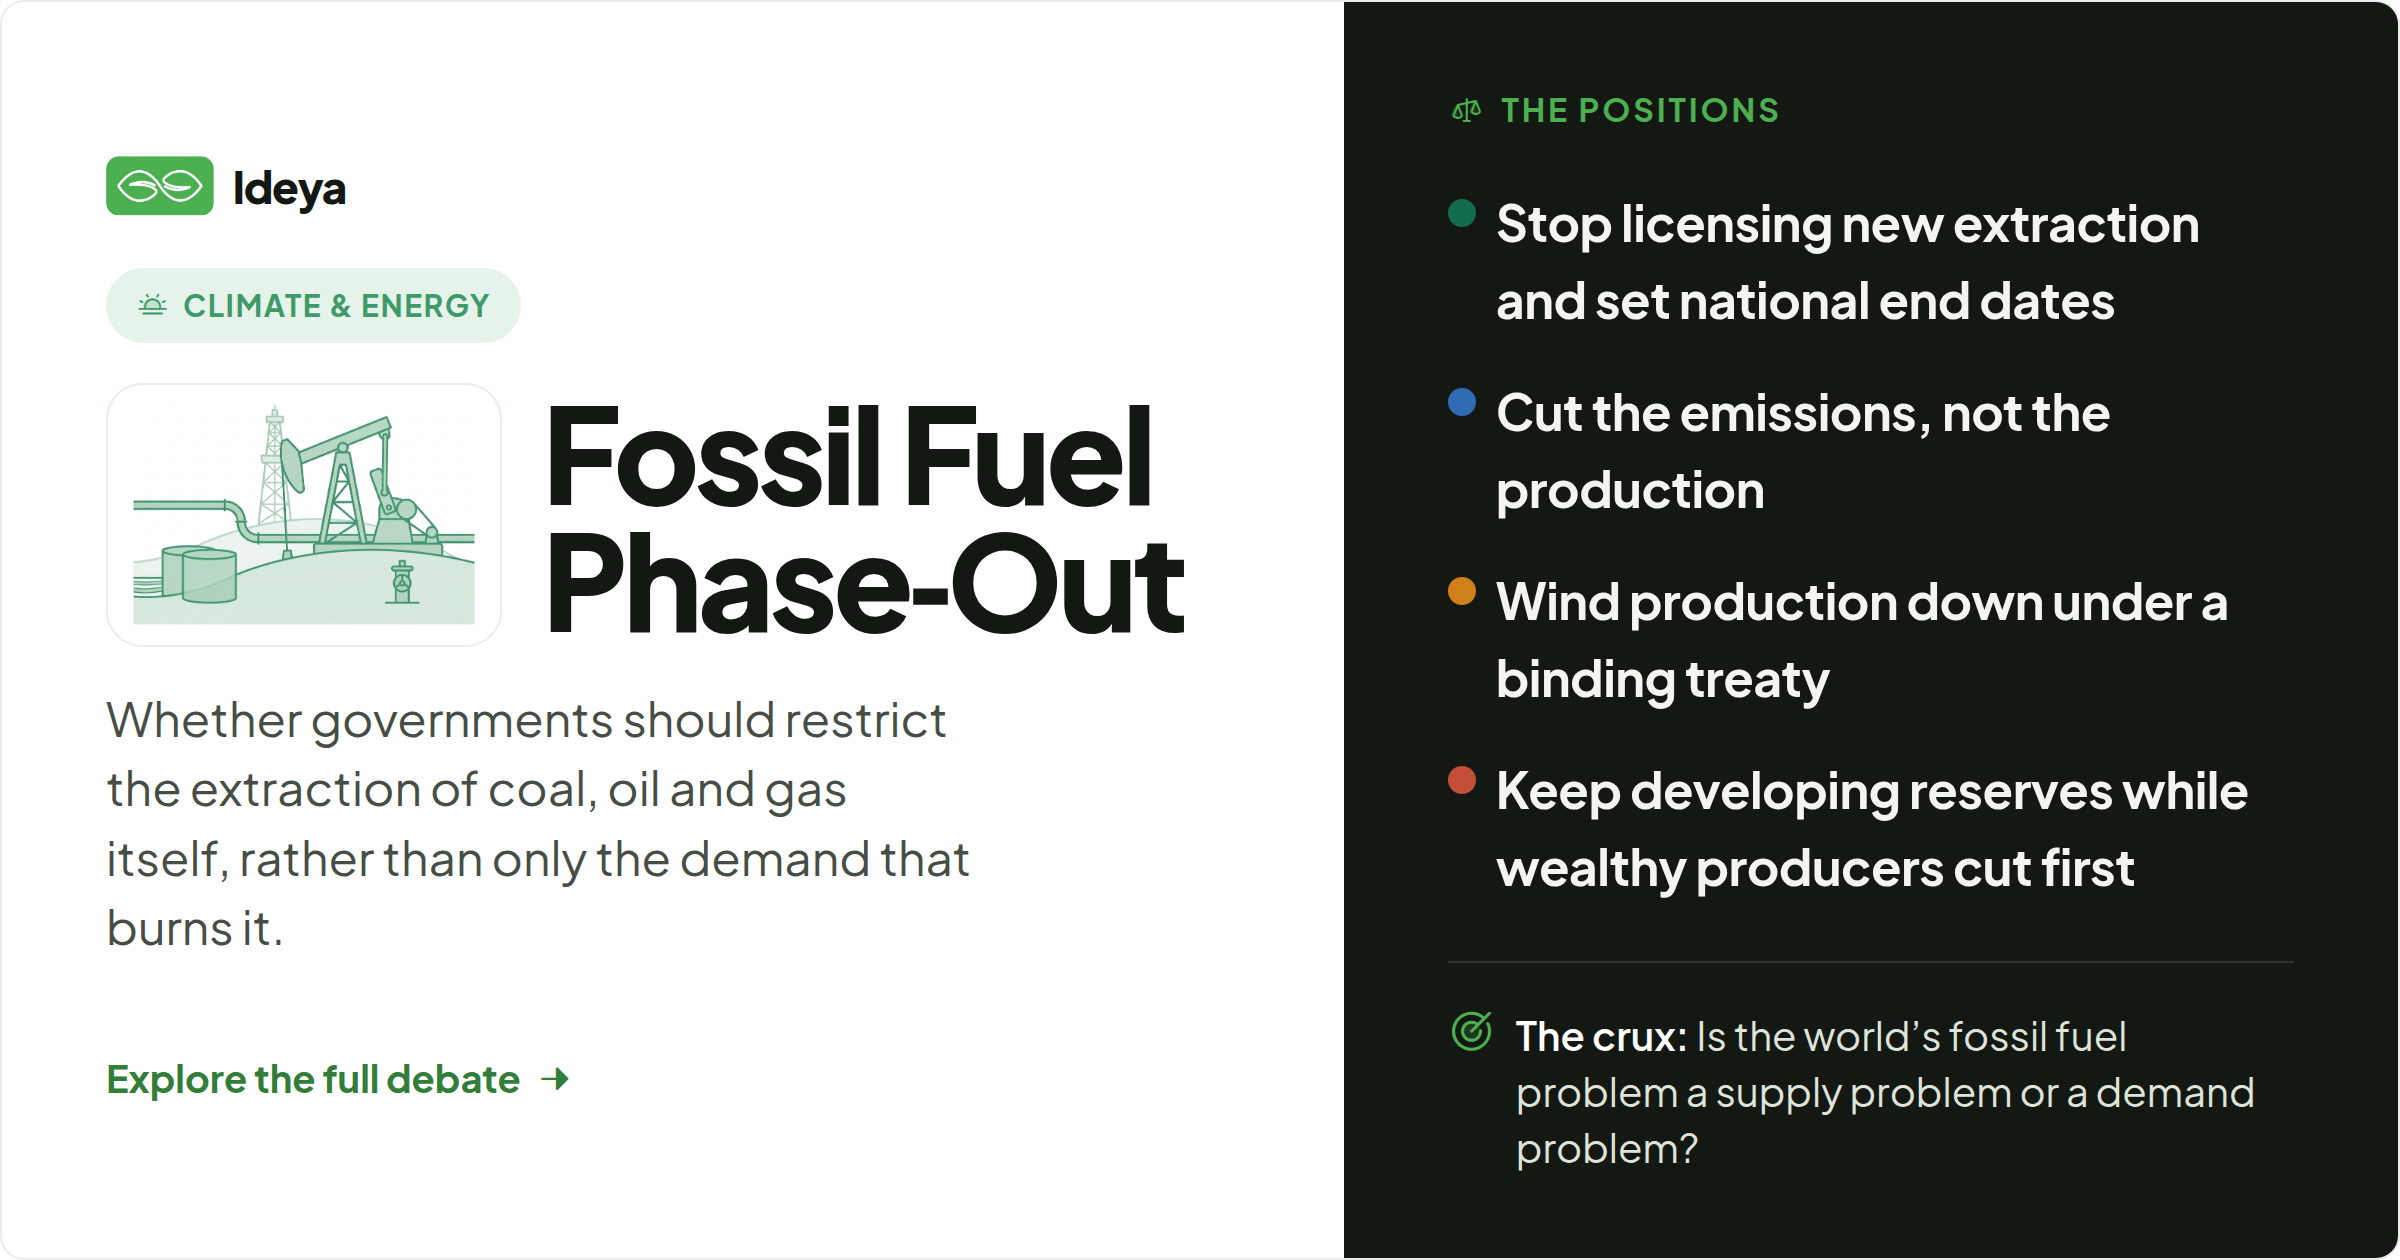
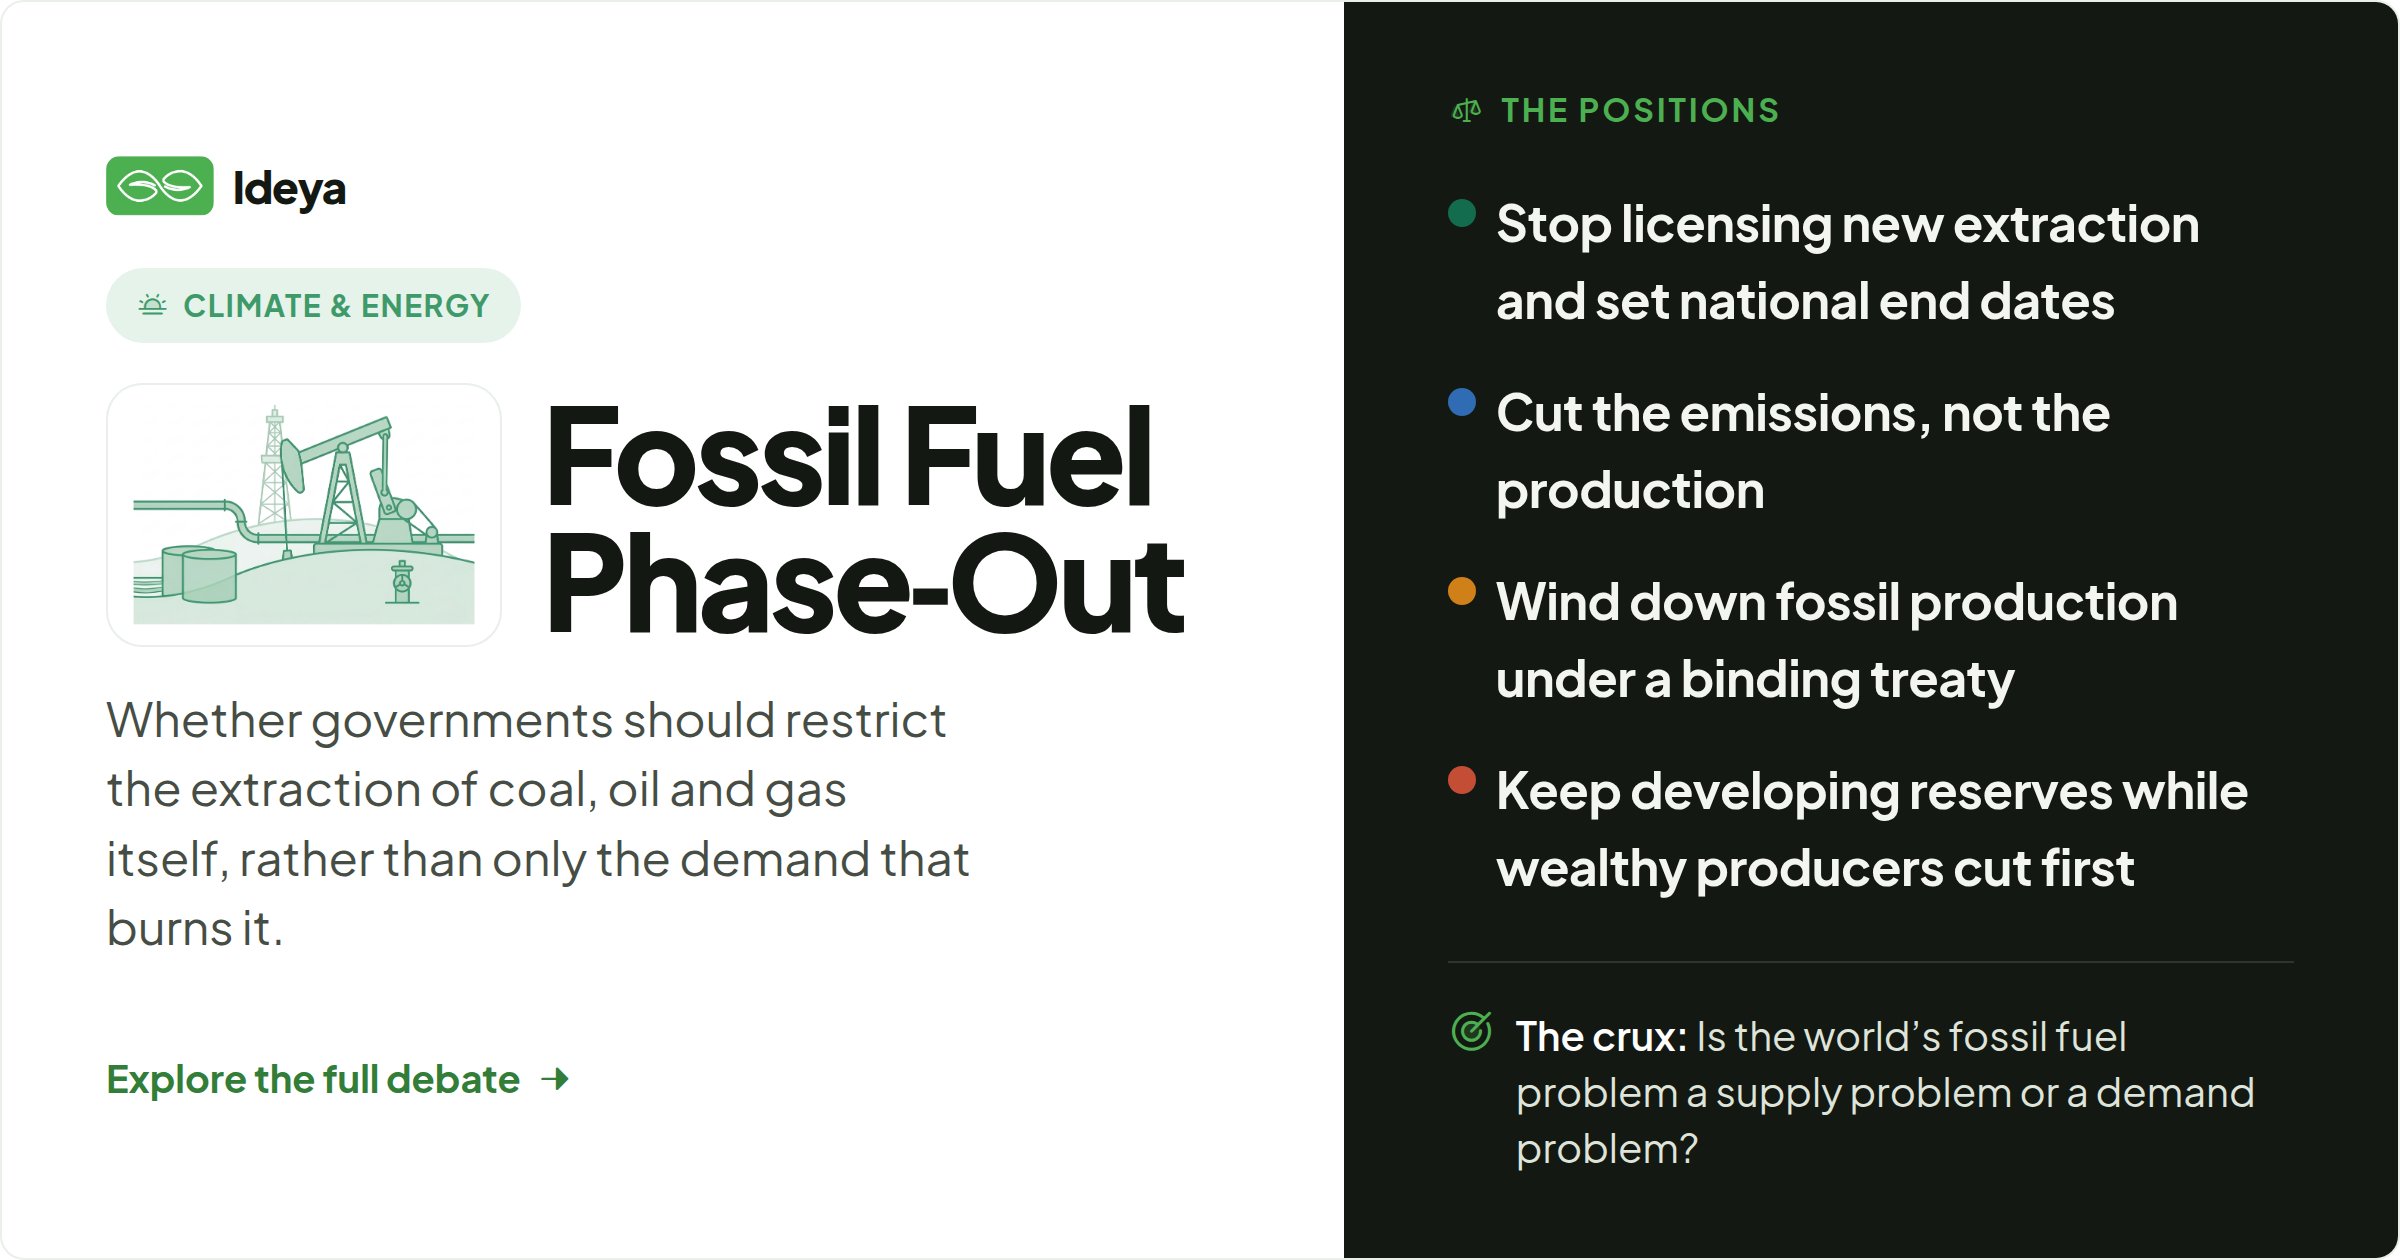
Launch review fixes: rate limit window, modal behavior, 20 topic corrections
From a full review of the 50 published topics and the reader interactions,
each finding re-checked before fixing.

- Rate limit: cache.incr re-set counters with the cache's 5-minute default,
  so every write pushed the lockout out and the daily cap never held. The
  window's end is now stored with the count.
- Modals: closing (Done, X, Esc, scrim) sends text typed but not sent; a
  vote or lean reopens its follow-up only while unanswered; the vote modal
  says what the reader did; a tick that fails to save un-ticks; Respond asks
  Yes / No / Not sure and offers plain options; prompt lists follow file
  order; placeholder reads "Your answer…".
- Topics: wrong-direction or self-contradicting lines fixed (homelessness,
  immigration, assisted dying, fossil fuels camp name, policing, UBI,
  deepfakes, degrowth, gun policy, AI pages and others); en-dash ranges;
  month-first dates on nuclear energy; fossil share cards re-rendered.
- Narrow range bands stay visible; drift check treats the derived neg flag
  like pct.

Changed region(s): [[0.6875, 0.4643, 0.9375, 0.4952], [0.625, 0.5262, 0.8438, 0.5571]]

diff --git a/static/js/ideya.js b/static/js/ideya.js
@@ -20,6 +20,19 @@
     // vote response triggers; its body arrives out of band — see _follow_modal).
     Alpine.store("follow", { open: false });
 
+    // Closing either modal (Done, X, Esc, scrim) sends text the reader typed
+    // but did not send, so nothing typed is lost on the way out.
+    [["follow", "#follow-body"], ["input", '[aria-label="Add your view"]']].forEach(
+      function (m) {
+        var was = false;
+        Alpine.effect(function () {
+          var open = Alpine.store(m[0]).open;
+          if (was && !open) sendUnsent(document.querySelector(m[1]));
+          was = open;
+        });
+      },
+    );
+
     // Row-synced expandable grid (positions, basics) — expansion state lives
     // on the grid (keyed by data-xid) so a click opens/closes every card
     // sharing the visual row: the CSS grid stretches row partners anyway, and
@@ -65,6 +78,24 @@
     });
   });
 
+  function sendUnsent(root) {
+    if (!root) return;
+    root.querySelectorAll(".send-btn").forEach(function (b) {
+      var f = b.previousElementSibling;
+      if (f && f.value !== f.defaultValue) b.click();
+    });
+  }
+  // Once sent, a field's text is no longer unsent.
+  document.addEventListener(
+    "click",
+    function (e) {
+      var b = e.target.closest && e.target.closest(".send-btn");
+      var f = b && b.previousElementSibling;
+      if (f) f.defaultValue = f.value;
+    },
+    true,
+  );
+
   // After collapsing a tall box the reader who clicked at its bottom would be
   // left far below where they started: the page reflows but the viewport
   // doesn't. If the collapsed element's top ended up above the viewport,
@@ -90,13 +121,20 @@
     var ok = e.detail.elt && e.detail.elt.dataset && e.detail.elt.dataset.ok;
     if (ok && e.detail.successful) toast(ok);
   });
+  // A tick that did not save must not stay ticked.
+  function untick(e) {
+    var el = e.detail.elt;
+    if (el && el.type === "checkbox") el.checked = !el.checked;
+  }
   document.addEventListener("htmx:responseError", function (e) {
+    untick(e);
     var status = e.detail.xhr ? e.detail.xhr.status : 0;
     if (status === 429) toast("Too many actions. Try again in a minute.", true);
     else if (status === 403) toast("This page expired. Reload it and try again.", true);
     else toast("That didn’t save. Try again.", true);
   });
-  document.addEventListener("htmx:sendError", function () {
+  document.addEventListener("htmx:sendError", function (e) {
+    untick(e);
     toast("Couldn’t reach Ideya. Check your connection.", true);
   });
 

diff --git a/static/css/ideya.css b/static/css/ideya.css
@@ -291,7 +291,7 @@ ul, ol { margin: 0; padding: 0; list-style: none; }
 /* range marker */
 .track { position: relative; height: 9px; background: linear-gradient(90deg, var(--green-tint), var(--ink-100)); border-radius: var(--radius-pill); }
 .track .pin { position: absolute; top: 50%; width: 12px; height: 12px; border-radius: var(--radius-pill); background: var(--accent); border: 2px solid var(--surface); transform: translate(-50%, -50%); }
-.track .rband { position: absolute; top: -1.5px; bottom: -1.5px; border-radius: var(--radius-pill); background: var(--accent); border: 2px solid var(--surface); } /* value-is-a-span marker ("60–90") — marks the span, not a midpoint */
+.track .rband { position: absolute; top: -1.5px; bottom: -1.5px; min-width: 10px; border-radius: var(--radius-pill); background: var(--accent); border: 2px solid var(--surface); } /* value-is-a-span marker ("60–90") — marks the span, not a midpoint */
 .ends { display: flex; justify-content: space-between; font-size: 11px; color: var(--fg3); margin-top: 7px; }
 /* radial */
 .radial { --pct: 0; width: 64px; height: 64px; border-radius: 50%; margin-top: 4px;

diff --git a/templates/topics/components/_prompt.html b/templates/topics/components/_prompt.html
@@ -17,7 +17,7 @@ The control mirrors the .lean / .ad chip patterns — token-based, lightly style
   blank send with nothing saved is a no-op — no post, no toast.{% endcomment %}
   {% if prompt.kind == "free_text" %}
   <div class="text-send" x-data="{ saved: {% if ur %}true{% else %}false{% endif %} }">
-    <textarea class="field prompt-text" id="ptext-{{ prompt.id }}" name="text" rows="3" placeholder="Share your reasoning…">{% if ur %}{{ ur.text }}{% endif %}</textarea>
+    <textarea class="field prompt-text" id="ptext-{{ prompt.id }}" name="text" rows="3" placeholder="Your answer…">{% if ur %}{{ ur.text }}{% endif %}</textarea>
     <button type="button" class="send-btn" aria-label="Save your take"
       hx-post="{% url 'topics:respond' prompt.id %}" hx-include="#ptext-{{ prompt.id }}" hx-swap="none"
       hx-trigger="confirmed"

diff --git a/templates/topics/poster.html b/templates/topics/poster.html
@@ -165,7 +165,7 @@
 
     {% if sec.questions %}
     <div class="band qband">
-      <div class="eyebrow"><i class="ph-duotone ph-question"></i>Questions <span class="sub">· what's contested</span></div>
+      <div class="eyebrow"><i class="ph-duotone ph-question"></i>Questions <span class="sub">· what’s contested</span></div>
       <div class="qrow">
         {% for q in sec.questions.questions.all|slice:":3" %}
         <div class="qcell"><span class="qtag {% if q.kind == 'empirical' %}emp{% else %}val{% endif %}"><i class="ph-duotone ph-{{ q.tag_icon }}"></i>{{ q.get_kind_display }}</span><div class="qt">{{ q.text }}</div></div>

diff --git a/topics/ratelimit.py b/topics/ratelimit.py
@@ -11,6 +11,8 @@ increment is not atomic across processes, so a burst can slip a few requests
 past the cap; for a soft limit that is fine.
 """
 
+import time
+
 from django.core.cache import cache
 
 # Per-IP ceiling on participation writes (votes, stances, leans, prompt answers).
@@ -36,15 +38,13 @@ def client_ip(request) -> str:
 
 def rate_limited(request, scope: str, limit: int, window: int) -> bool:
     """Fixed-window counter: True once this IP exceeds `limit` hits on `scope`
-    within `window` seconds. The window does not slide — the TTL is set once when
-    the counter is created, so incrementing never extends it."""
+    within `window` seconds. The window's end is stored with the count and every
+    write keeps it, so hits never extend the window (cache.incr would: it re-sets
+    the key with the cache's default timeout)."""
     key = f"rl:{scope}:{client_ip(request)}"
-    if cache.get(key, 0) >= limit:
+    now = time.time()
+    count, ends = cache.get(key, (0, now + window))
+    if count >= limit:
         return True
-    # add() sets the counter (with TTL) only if absent; else bump it in place.
-    if not cache.add(key, 1, window):
-        try:
-            cache.incr(key)
-        except ValueError:  # expired between the get and the incr — restart it
-            cache.set(key, 1, window)
+    cache.set(key, (count + 1, ends), max(1, int(ends - now)))
     return False

diff --git a/topics/views.py b/topics/views.py
@@ -191,11 +191,16 @@ def _prompts_for(request, obj, trigger=""):
     return _hydrate_prompts(request, prompts)
 
 
-def _with_follow_up(request, response, target, obj, trigger, eyebrow, icon):
+def _with_follow_up(
+    request, response, target, obj, trigger, eyebrow, icon, unanswered_only=False
+):
     """Append the follow-up modal's body (and eyebrow) to a fragment response
     as out-of-band swaps and fire the "follow-up" event that opens it. A
-    no-op when the item has no prompts for this trigger."""
+    no-op when the item has no prompts for this trigger, or, with
+    `unanswered_only`, when the reader already answered one of them."""
     prompts = _prompts_for(request, obj, trigger)
+    if unanswered_only and any(p.user_response for p in prompts):
+        return response
     if prompts:
         body = render(
             request,
@@ -599,8 +604,9 @@ def vote(request, target, pk):
             target,
             obj,
             Prompt.TRIGGER_VOTE,
-            "",
-            "",
+            f"You upvoted this {target}",
+            "caret-up",
+            unanswered_only=True,
         )
     return response
 
@@ -655,6 +661,7 @@ def question_lean(request, pk):
             f"lean_{value}",
             f"You lean “{label}”",
             "arrows-left-right",
+            unanswered_only=True,
         )
     return response
 

diff --git a/topics/management/commands/seed_example_prompts.py b/topics/management/commands/seed_example_prompts.py
@@ -55,13 +55,13 @@ RESPOND_FOLLOW_UPS = [
     dict(
         kind=Prompt.CHOOSE_ONE,
         text="{verdict}",
-        options=["Agree", "Disagree", "Unsure"],
+        options=["Yes", "No", "Not sure"],
     ),
     dict(
         kind=Prompt.CHOOSE_MANY,
         text="What should happen to it?",
         help_text="Pick any that apply — a note on each helps the editor.",
-        options=["Keep as is", "Promote", "Demote", "Reword", "Remove"],
+        options=["Move it higher", "Move it lower", "Reword it", "Remove it"],
     ),
     dict(
         kind=Prompt.FREE_TEXT,
@@ -170,7 +170,7 @@ def seed_topic_prompts(topic) -> int:
     questions = list(
         Question.objects.filter(
             section__topic=topic, section__kind="questions"
-        ).order_by("-votes", "order", "id")
+        ).order_by("order", "id")
     )
 
     # Orphan sweep: a GenericForeignKey does not cascade, so prompts whose

diff --git a/topics/management/commands/check_topic_drift.py b/topics/management/commands/check_topic_drift.py
@@ -77,9 +77,9 @@ def _derived(path, disk, db):
     # range_at is only kept for a range viz; elsewhere the loader drops it
     if path.endswith(".range_at") and disk in (0, "", None) and db is None:
         return True
-    # fill_pct, range_at and series pct are derived from the values at load
-    # time when the file leaves them open (load_topic_draft.derive_viz)
-    if path.endswith((".fill_pct", ".range_at", ".pct")) and disk in ("", None, "<absent>"):
+    # fill_pct, range_at and series pct / neg are derived from the values at
+    # load time when the file leaves them open (load_topic_draft.derive_viz)
+    if path.endswith((".fill_pct", ".range_at", ".pct", ".neg")) and disk in ("", None, "<absent>"):
         return True
     # a null or missing range end in the file is stored as "" (CharField)
     if path.endswith((".range_min", ".range_max")) and disk in (None, "<absent>") and db == "":

diff --git a/topics/models.py b/topics/models.py
@@ -346,7 +346,7 @@ class Section(models.Model):
     META = {
         OVERVIEW: ("compass-rose", "the orientation"),
         BASICS: ("chart-bar", "the numbers"),
-        QUESTIONS: ("question", "what's contested"),
+        QUESTIONS: ("question", "what’s contested"),
         POSITIONS: ("scales", "the debate"),
         CRUX: ("target", "where it actually sits"),
         ACTIONS: ("compass", "paths forward, across the landscape"),
